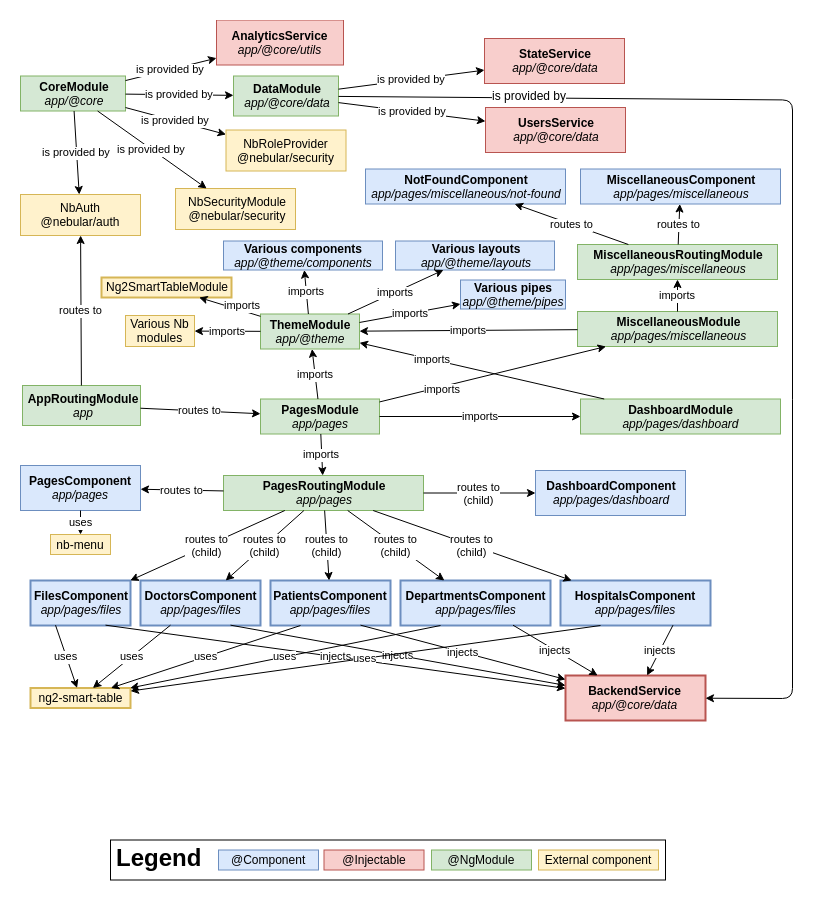
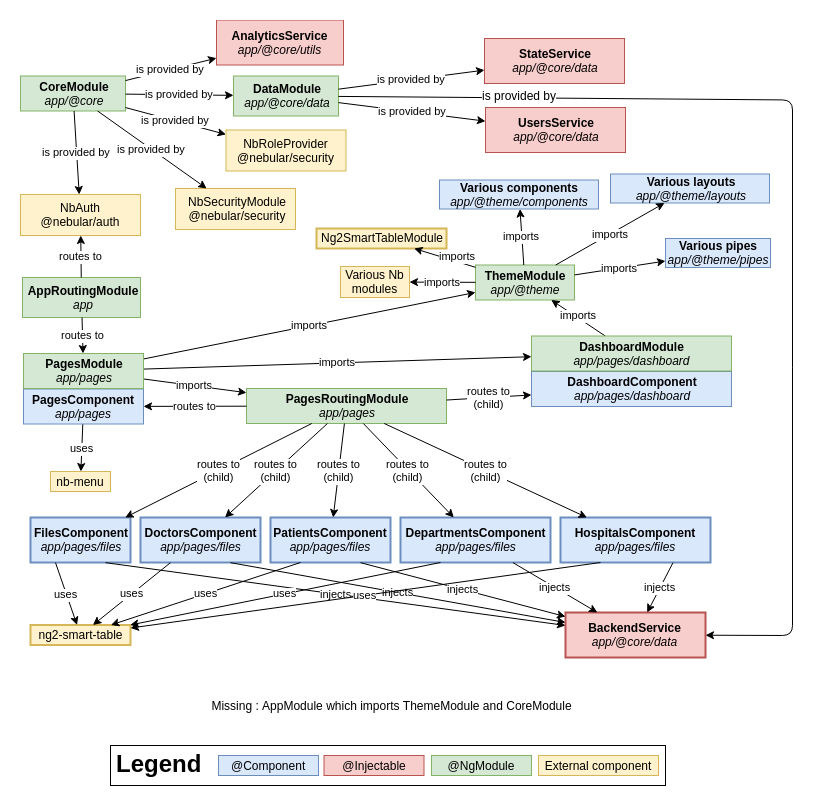
Removed the Miscellaneous module

diff --git a/src/app/pages/pages.module.ts b/src/app/pages/pages.module.ts
@@ -4,7 +4,6 @@ import { PagesComponent } from './pages.component';
 import { DashboardModule } from './dashboard/dashboard.module';
 import { PagesRoutingModule } from './pages-routing.module';
 import { ThemeModule } from '../@theme/theme.module';
-import { MiscellaneousModule } from './miscellaneous/miscellaneous.module';
 import { HospitalsComponent } from './hospitals/hospitals.component';
 import { DepartmentsComponent } from './departments/departments.component';
 import { DoctorsComponent } from './doctors/doctors.component';
@@ -20,7 +19,6 @@ const PAGES_COMPONENTS = [
     PagesRoutingModule,
     ThemeModule,
     DashboardModule,
-    MiscellaneousModule,
   ],
   declarations: [
     ...PAGES_COMPONENTS,
